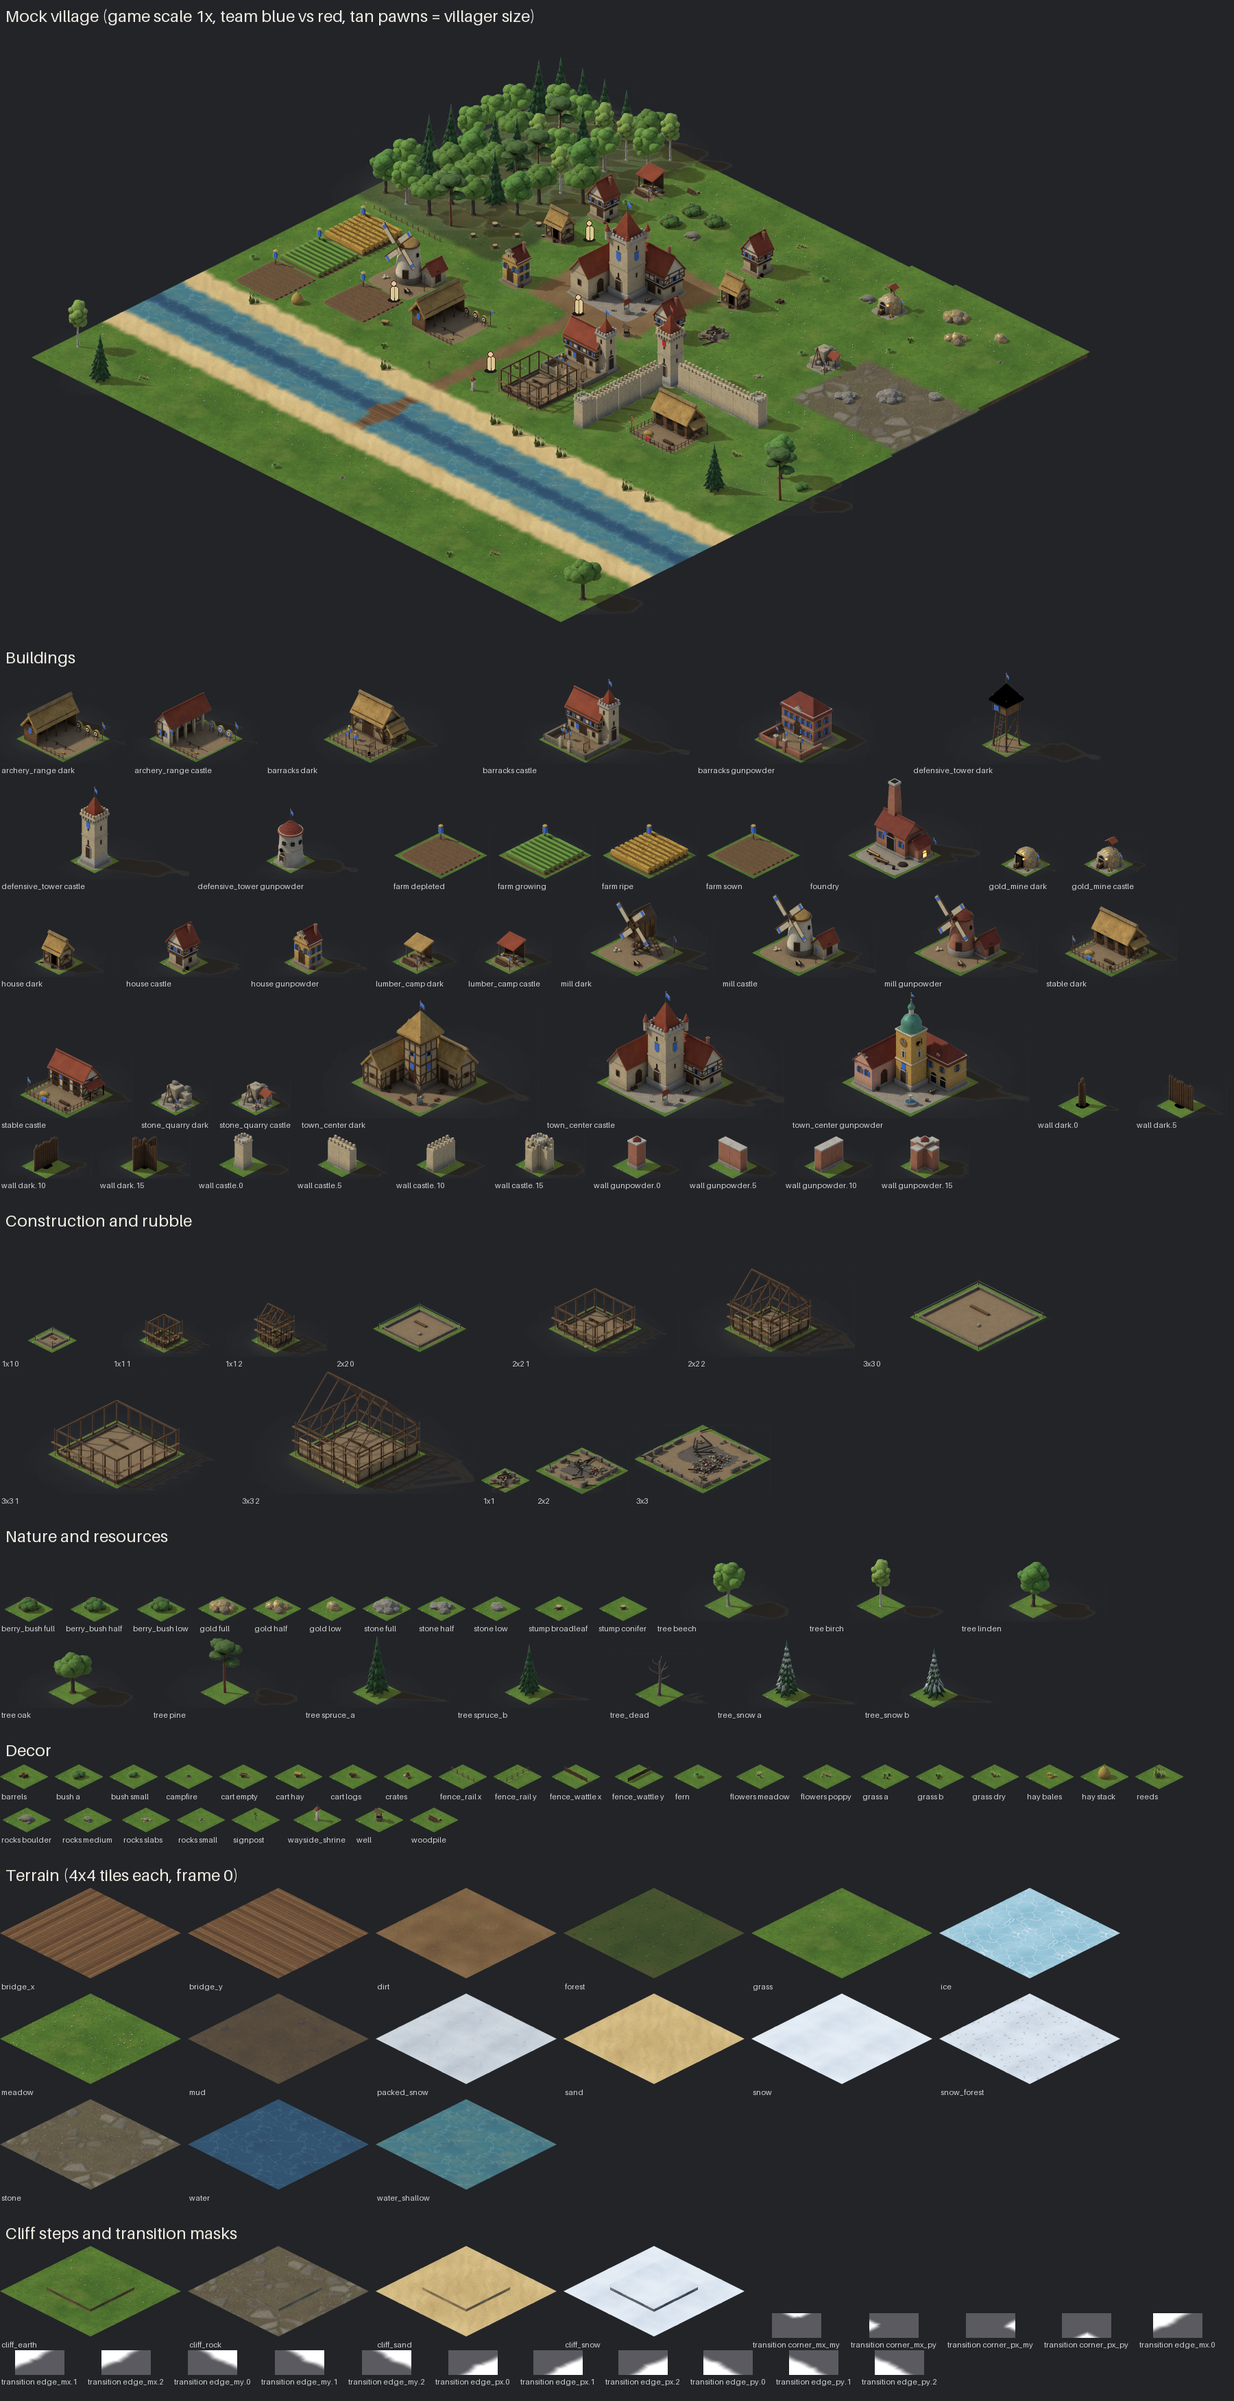
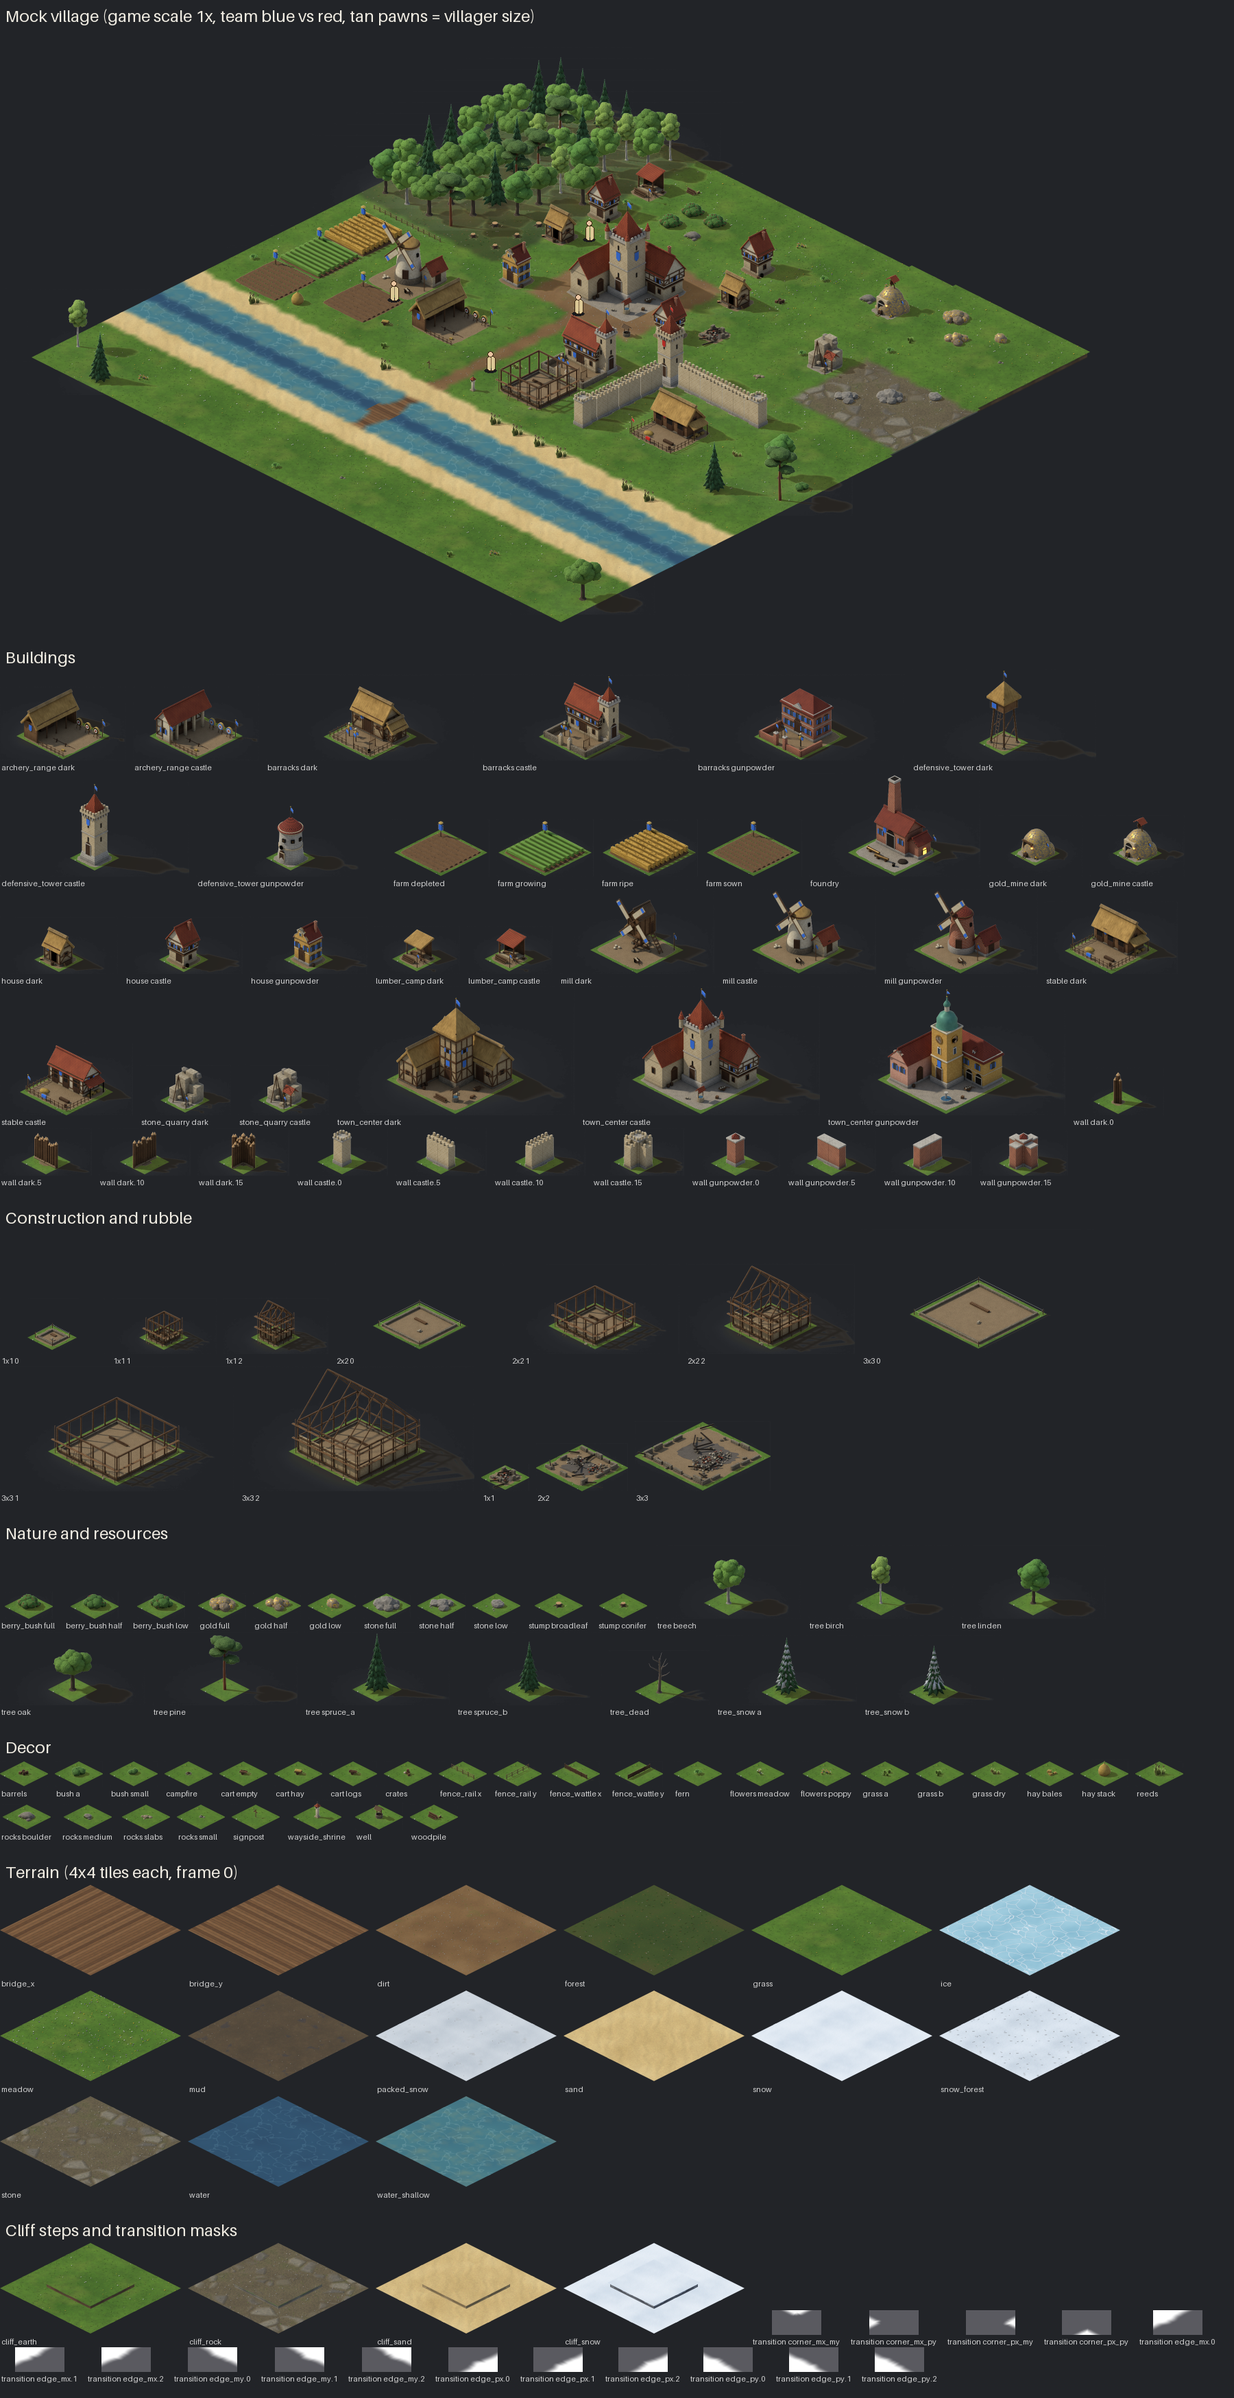
fix(art): log palisade, thatched tower roof, bigger mine and quarry
Dark-age walls are a log palisade on a dirt bank instead of thin dark
slabs, the dark-age watchtower gets a thatched roof instead of a black
one, and the gold mine and stone quarry fill their tile. The packer now
writes team masks as the frame's luma so tinted masks keep their
shading. unpack_sprites.py rebuilds the raw renders from the atlases so
single sprites can be re-rendered and repacked.

diff --git a/scripts/blender/buildings.py b/scripts/blender/buildings.py
@@ -685,24 +685,26 @@ def gold_mine(col, rng, era: str) -> None:
     b.pad(1, 1, "gravel")
     from nature import gold_ore_material
 
-    _mound(b, -0.08, 0.16, 0.44, 0.36, 0.52, gold_ore_material())
-    ex, ey = -0.08, -0.14
+    # The hill fills the tile (it read as a pebble on its footprint before).
+    _mound(b, -0.04, 0.12, 0.52, 0.46, 0.8, gold_ore_material())
+    _mound(b, 0.3, 0.32, 0.22, 0.2, 0.42, gold_ore_material())
+    ex, ey = -0.08, -0.2
     pm = "log" if era == "dark" else "ashlar"
     if era == "dark":
-        b.box(ex - 0.13, ey - 0.06, 0, ex + 0.13, ey + 0.1, 0.34, "void", 0)
-        for dx in (-0.14, 0.14):
-            b.cyl((ex + dx, ey - 0.05, 0), (ex + dx, ey - 0.05, 0.36), 0.024, pm, segs=7)
-        b.beam((ex - 0.19, ey - 0.05, 0.37), (ex + 0.19, ey - 0.05, 0.37), 0.04, pm)
+        b.box(ex - 0.16, ey - 0.06, 0, ex + 0.16, ey + 0.14, 0.44, "void", 0)
+        for dx in (-0.17, 0.17):
+            b.cyl((ex + dx, ey - 0.05, 0), (ex + dx, ey - 0.05, 0.47), 0.03, pm, segs=7)
+        b.beam((ex - 0.23, ey - 0.05, 0.48), (ex + 0.23, ey - 0.05, 0.48), 0.05, pm)
     else:
-        b.box(ex - 0.2, ey - 0.08, 0, ex + 0.2, ey + 0.1, 0.42, "ashlar", 0.01)
-        b.opening("-y", ex - 0.2, ey - 0.08, ex + 0.2, ey + 0.1, 0.5, 0.0, 0.24, 0.26, "void", frame_m="ashlar_grey",
+        b.box(ex - 0.24, ey - 0.08, 0, ex + 0.24, ey + 0.14, 0.52, "ashlar", 0.01)
+        b.opening("-y", ex - 0.24, ey - 0.08, ex + 0.24, ey + 0.14, 0.5, 0.0, 0.28, 0.32, "void", frame_m="ashlar_grey",
                   arch=True, depth=0.02)
         # winding gear on top of the hill
-        for dx in (-0.12, 0.12):
-            b.beam((-0.05 + dx, 0.2, 0.42), (-0.05, 0.2, 0.75), 0.022, "timber")
-        b.cyl((-0.17, 0.2, 0.7), (0.07, 0.2, 0.7), 0.012, "iron", segs=6)
-        b.cyl((-0.08, 0.2, 0.7), (-0.06, 0.2, 0.7), 0.09, "timber", segs=14, smooth=False)
-        b.gable_roof(-0.2, 0.08, 0.1, 0.32, 0.78, 0.1, "tile_red", axis="y", overhang=0.02, thick=0.02)
+        for dx in (-0.14, 0.14):
+            b.beam((-0.05 + dx, 0.2, 0.62), (-0.05, 0.2, 1.02), 0.026, "timber")
+        b.cyl((-0.19, 0.2, 0.96), (0.09, 0.2, 0.96), 0.014, "iron", segs=6)
+        b.cyl((-0.08, 0.2, 0.96), (-0.06, 0.2, 0.96), 0.11, "timber", segs=14, smooth=False)
+        b.gable_roof(-0.24, 0.1, 0.1, 0.34, 1.05, 0.12, "tile_red", axis="y", overhang=0.02, thick=0.02)
     # rails out of the adit
     for dx in (-0.045, 0.045):
         b.beam((ex + dx, ey - 0.02, 0.012), (ex + dx + 0.04, -0.47, 0.012), 0.01, "iron", d=0.01)
@@ -734,30 +736,31 @@ def stone_quarry(col, rng, era: str) -> None:
     b = _b(col, rng)
     b.pad(1, 1, "gravel")
     # stepped rock face at the back
-    blocks = [(-0.45, 0.05, -0.05, 0.45, 0.45), (-0.05, 0.2, 0.3, 0.45, 0.32), (-0.45, -0.2, -0.2, 0.08, 0.22),
-              (0.05, 0.08, 0.3, 0.2, 0.14)]
+    # Tall stepped face that fills the tile (it read as a pebble on its footprint before).
+    blocks = [(-0.48, 0.02, -0.02, 0.48, 0.74), (-0.04, 0.16, 0.36, 0.48, 0.52), (-0.48, -0.26, -0.18, 0.06, 0.38),
+              (0.04, 0.02, 0.36, 0.18, 0.24), (-0.24, 0.24, 0.12, 0.48, 0.9)]
     for (bx0, by0, bx1, by1, h) in blocks:
         ob = b.box(bx0, by0, 0, bx1, by1, h, "rock_cut", 0.02)
-        b.roughen(ob, 0.012, 0.08, 2)
-    for _ in range(4):
-        p = (rng.uniform(-0.4, 0.2), rng.uniform(0.3, 0.42), 0.4 + rng.uniform(0, 0.08))
-        r = b.sphere(p, rng.uniform(0.07, 0.11), "rock", scale=(1.2, 1, 0.7), subdiv=1)
+        b.roughen(ob, 0.014, 0.08, 2)
+    for _ in range(5):
+        p = (rng.uniform(-0.42, 0.2), rng.uniform(0.3, 0.44), 0.72 + rng.uniform(0, 0.12))
+        r = b.sphere(p, rng.uniform(0.08, 0.12), "rock", scale=(1.2, 1, 0.7), subdiv=1)
         b.roughen(r, 0.02, 0.1, 1)
     # cut blocks
     for i, (px, py, z) in enumerate(((0.18, -0.3, 0), (0.3, -0.3, 0), (0.24, -0.3, 0.07), (0.32, -0.12, 0))):
         b.box(px - 0.055, py - 0.045, z, px + 0.055, py + 0.045, z + 0.07, "ashlar" if era != "dark" else "rock_cut",
               0.006, rng.uniform(-0.1, 0.1))
     # tripod crane
-    cx, cy, top = -0.12, -0.18, 0.72
+    cx, cy, top = -0.12, -0.2, 0.95
     for a in (0.3, 2.4, 4.4):
         b.cyl((cx + math.cos(a) * 0.2, cy + math.sin(a) * 0.2, 0), (cx, cy, top), 0.016, "log", segs=6)
     b.beam((cx, cy, top), (cx + 0.18, cy - 0.12, top - 0.05), 0.02, "log")
     b.cyl((cx + 0.17, cy - 0.11, top - 0.06), (cx + 0.17, cy - 0.11, 0.3), 0.004, "rope", segs=4)
     b.box(cx + 0.12, cy - 0.16, 0.22, cx + 0.22, cy - 0.06, 0.3, "rock_cut", 0.006)
     if era != "dark":
-        b.gable_roof(0.12, 0.08, 0.44, 0.44, 0.38, 0.12, "tile_red", axis="x", overhang=0.03, thick=0.02)
-        for (px, py) in ((0.12, 0.08), (0.44, 0.08)):
-            b.cyl((px, py, 0), (px, py, 0.38), 0.015, "timber", segs=6)
+        b.gable_roof(0.12, -0.12, 0.46, 0.18, 0.46, 0.14, "tile_red", axis="x", overhang=0.03, thick=0.02)
+        for (px, py) in ((0.12, -0.12), (0.46, -0.12)):
+            b.cyl((px, py, 0), (px, py, 0.46), 0.018, "timber", segs=6)
     b.banner(0.42, -0.4, 0.0, 0.5, 0.12, 0.08, pole_m="log" if era == "dark" else "timber")
 
 
@@ -787,7 +790,8 @@ def defensive_tower(col, rng, era: str) -> None:
         b.box(-p, -p, top + 0.05, -p + 0.03, p, top + 0.27, "planks", 0.004)
         for (px, py) in ((-p, -p), (p, -p), (p, p), (-p, p)):
             b.cyl((px, py, top), (px, py, top + 0.56), 0.02, "log", segs=6)
-        b.hip_roof(-p, -p, p, p, top + 0.56, 0.42, "thatch", overhang=0.1, thick=0.07, rough=0.012)
+        # No roughen here: displace + bevel on the pyramid apex shaded the whole roof pure black.
+        b.hip_roof(-p, -p, p, p, top + 0.56, 0.42, "thatch", overhang=0.1, thick=0.07, rough=0.0)
         # ladder
         for dx in (-0.06, 0.06):
             b.beam((0.05 + dx, -0.48, 0), (0.05 + dx, -0.24, top), 0.014, "log")
@@ -888,25 +892,30 @@ def wall(col, rng, era: str, mask: int) -> None:
     arms = [d for bit, d in WALL_DIRS if mask & bit]
     straight = mask in (5, 10)
     if era == "dark":
-        def stake(x: float, y: float, h: float, r: float = 0.042) -> None:
-            b.cyl((x, y, 0), (x, y, h), r, "log", segs=8)
-            b.cone(x, y, h, r, 0.08, "log", segs=8)
+        # Log palisade: fat bark stakes with pale sharpened tips and a ragged top,
+        # two binding rails and an earth bank, so it reads as logs and not a slab.
+        def stake(x: float, y: float, h: float, r: float = 0.054) -> None:
+            b.cyl((x, y, 0), (x, y, h), r, "log", segs=9)
+            b.cone(x, y, h, r * 0.98, 0.1, "log_end", segs=9)
 
         for dx, dy in arms:
-            n = 6
+            n = 5
             for i in range(1, n + 1):
-                t = 0.5 * i / n
-                stake(dx * t + rng.uniform(-0.006, 0.006), dy * t + rng.uniform(-0.006, 0.006),
-                      rng.uniform(0.78, 0.9), rng.uniform(0.036, 0.046))
-            # binding rail on the outside faces
-            b.beam((0, 0, 0.55), (dx * 0.5, dy * 0.5, 0.55), 0.02, "timber", d=0.1 if dy == 0 else 0.1)
+                t = 0.5 * i / n - 0.04
+                stake(dx * t + rng.uniform(-0.007, 0.007), dy * t + rng.uniform(-0.007, 0.007),
+                      rng.uniform(0.7, 0.92), rng.uniform(0.048, 0.06))
+            for z in (0.24, 0.56):
+                b.beam((0, 0, z), (dx * 0.5, dy * 0.5, z), 0.028, "timber", d=0.15)
+            bank = b.box(min(0, dx * 0.5) - 0.07 * abs(dy), min(0, dy * 0.5) - 0.07 * abs(dx), 0,
+                         max(0, dx * 0.5) + 0.07 * abs(dy), max(0, dy * 0.5) + 0.07 * abs(dx), 0.07, "dirt", 0.03)
+            b.roughen(bank, 0.02, 0.1, 1)
         if not straight:
-            stake(0, 0, 0.98, 0.06)
+            stake(0, 0, 1.0, 0.07)
             if not arms:
                 for a in (0.0, 2.1, 4.2):
-                    stake(math.cos(a) * 0.09, math.sin(a) * 0.09, 0.82, 0.045)
+                    stake(math.cos(a) * 0.1, math.sin(a) * 0.1, 0.84, 0.052)
         else:
-            stake(0, 0, 0.86, 0.044)
+            stake(0, 0, 0.86, 0.054)
         b.pad(0.9, 0.9, "dirt", inset=0.25, irregular=0.03)
     else:
         mt = "ashlar" if era == "castle" else "brick"

diff --git a/scripts/unpack_sprites.py b/scripts/unpack_sprites.py
@@ -1,0 +1,114 @@
+"""Rebuild raw renders + records.json from the packed atlases and manifest.
+
+The raw Blender renders (art-source/blender/renders/, gitignored) are not
+kept in the repo. scripts/pack_sprites.py always repacks every family from
+them, so re-rendering a handful of sprites on a fresh checkout would drop
+everything else. This script reverses the packer: it cuts every frame, mask
+and shadow back out of public/assets/sprites/*.png onto its full source
+canvas and writes a records.json per family that pack_sprites.py accepts.
+
+  python3 scripts/unpack_sprites.py [--force]
+
+Then re-render only what changed (render_all.py --only merges records) and
+repack:
+
+  Blender -b --factory-startup -P scripts/blender/render_all.py -- \
+      --families buildings --only wall_dark --no-pack
+  python3 scripts/pack_sprites.py
+
+Existing raw PNGs are kept unless --force is given.
+"""
+
+from __future__ import annotations
+
+import json
+import os
+import sys
+
+import numpy as np
+from PIL import Image
+
+REPO = os.path.abspath(os.path.join(os.path.dirname(os.path.abspath(__file__)), ".."))
+SPRITES = os.path.join(REPO, "public", "assets", "sprites")
+RAW = os.path.join(REPO, "art-source", "blender", "renders")
+
+ASSET_META = ("kind", "defId", "tileType", "construction", "rubble", "resource", "period", "stepPx")
+VARIANT_META = ("progress", "connections", "era", "amount", "frameIndex")
+
+
+def family_of(atlas_key: str) -> str:
+    """'kr-buildings-0' -> 'buildings'."""
+    return atlas_key[len("kr-"):].rsplit("-", 1)[0]
+
+
+def main() -> None:
+    force = "--force" in sys.argv
+    with open(os.path.join(SPRITES, "manifest.json")) as fh:
+        manifest = json.load(fh)
+    atlases = {}
+    for a in manifest["atlases"]:
+        with open(os.path.join(SPRITES, a["json"])) as fh:
+            frames = json.load(fh)["frames"]
+        image = np.asarray(Image.open(os.path.join(SPRITES, a["image"])).convert("RGBA"))
+        atlases[a["key"]] = (frames, image)
+
+    records: dict[str, list[dict]] = {}
+    written = 0
+    for asset_id, asset in manifest["assets"].items():
+        for variant_key, v in asset["variants"].items():
+            frames, image = atlases[v["atlas"]]
+            family = family_of(v["atlas"])
+            out_dir = os.path.join(RAW, family)
+            os.makedirs(out_dir, exist_ok=True)
+            name = v["frame"]
+            files = {}
+            for kind, frame_name in (("frame", name), ("mask", v.get("mask")), ("shadow", v.get("shadow"))):
+                if not frame_name or frame_name not in frames:
+                    continue
+                path = os.path.join(out_dir, f"{frame_name}.png")
+                files[kind] = os.path.relpath(path, REPO)
+                if os.path.exists(path) and not force:
+                    continue
+                f = frames[frame_name]
+                fr, ss, sp = f["frame"], f["sourceSize"], f["spriteSourceSize"]
+                canvas = np.zeros((ss["h"], ss["w"], 4), np.uint8)
+                cut = image[fr["y"]:fr["y"] + fr["h"], fr["x"]:fr["x"] + fr["w"]].copy()
+                # The packer bled RGB into transparent pixels; keep them clean.
+                cut[cut[..., 3] == 0] = 0
+                canvas[sp["y"]:sp["y"] + fr["h"], sp["x"]:sp["x"] + fr["w"]] = cut
+                Image.fromarray(canvas).save(path)
+                written += 1
+            meta = {"asset": asset_id, "variant": variant_key}
+            for k in ASSET_META:
+                if k in asset:
+                    meta[k] = asset[k]
+            for k in VARIANT_META:
+                if k in v:
+                    meta[k] = v[k]
+            records.setdefault(family, []).append({
+                "name": name,
+                "files": files,
+                "anchor": v["anchor"],
+                "width": v["size"][0],
+                "height": v["size"][1],
+                "footprint": asset["footprint"],
+                "family": family,
+                "meta": meta,
+            })
+
+    for family, recs in records.items():
+        path = os.path.join(RAW, family, "records.json")
+        merged: dict[str, dict] = {}
+        if os.path.exists(path) and not force:
+            with open(path) as fh:
+                merged = {r["name"]: r for r in json.load(fh)}
+        for r in recs:
+            merged.setdefault(r["name"], r)
+        with open(path, "w") as fh:
+            json.dump(sorted(merged.values(), key=lambda r: r["name"]), fh, indent=1)
+        print(f"[unpack] {family}: {len(recs)} records")
+    print(f"[unpack] wrote {written} PNGs to {os.path.relpath(RAW, REPO)}")
+
+
+if __name__ == "__main__":
+    main()

diff --git a/scripts/pack_sprites.py b/scripts/pack_sprites.py
@@ -165,18 +165,42 @@ def bleed(arr: np.ndarray) -> np.ndarray:
     return out
 
 
+MASK_LUMA_GAIN = 1.25
+
+
+def shaded_mask(mask: np.ndarray, colour: np.ndarray) -> np.ndarray:
+    """Team mask RGB = the colour frame's luma * MASK_LUMA_GAIN (alpha unchanged).
+
+    The engine tints the mask with the team colour and draws it over the frame
+    with normal blending, which gives mix(rgb, team * luma * 1.25, alpha): the
+    painted cloth keeps the render's light and shade instead of a flat fill.
+    """
+    rgb = colour[..., :3].astype(np.float32)
+    luma = rgb[..., 0] * 0.299 + rgb[..., 1] * 0.587 + rgb[..., 2] * 0.114
+    shade = np.clip(luma * MASK_LUMA_GAIN, 0, 255).astype(np.uint8)
+    out = mask.copy()
+    out[..., 0] = shade
+    out[..., 1] = shade
+    out[..., 2] = shade
+    return out
+
+
 def pack_family(family: str, records: list[dict], quantize: bool) -> tuple[list[dict], dict[str, dict]]:
     """Returns (atlas descriptors, frame index name -> {atlas, w, h})."""
     sprites = []
     for rec in records:
+        frame_path = os.path.join(REPO, rec["files"].get("frame", ""))
+        colour = load_rgba(frame_path) if "frame" in rec["files"] and os.path.exists(frame_path) else None
         for kind, rel in rec["files"].items():
             path = os.path.join(REPO, rel)
             if not os.path.exists(path):
                 continue
             arr = load_rgba(path)
             name = rec["name"] if kind == "frame" else f"{rec['name']}__{kind}"
+            if kind == "mask" and colour is not None and colour.shape == arr.shape:
+                arr = shaded_mask(arr, colour)
             t, ox, oy = trim(arr)
-            if kind == "frame":
+            if kind in ("frame", "mask"):
                 t = bleed(t)
             sprites.append({"name": name, "img": t, "ox": ox, "oy": oy, "sw": arr.shape[1], "sh": arr.shape[0],
                             "anchor": rec["anchor"]})
@@ -303,8 +327,8 @@ def build_manifest(all_records: list[dict], atlases: dict[str, list[dict]], inde
                           "= neighbour at x+1, corner_px_py = diagonal neighbour at x+1,y+1 (only when neither "
                           "adjacent edge neighbour matches)",
             "walls": "variant '<era>.<mask>', mask bits 1 = +x, 2 = +y, 4 = -x, 8 = -y (game tile directions)",
-            "mask": "white RGB, alpha = team colour coverage; tint per player and draw over the frame (multiply or "
-                    "overlay), same sourceSize and anchor",
+            "mask": "RGB = colour frame luma * 1.25 (grey shading), alpha = team colour coverage; tint (multiply) "
+                    "with the team colour and draw over the frame with normal blending, same sourceSize and anchor",
             "shadow": "black RGB, alpha = shadow; draw on a ground layer below all objects, same sourceSize and anchor",
             "sun": "from screen top-left, shadows fall to the screen right",
             "gameToBlender": "game tile +x = Blender +X, game tile +y = Blender -Y, 1 tile = 1 Blender unit",
